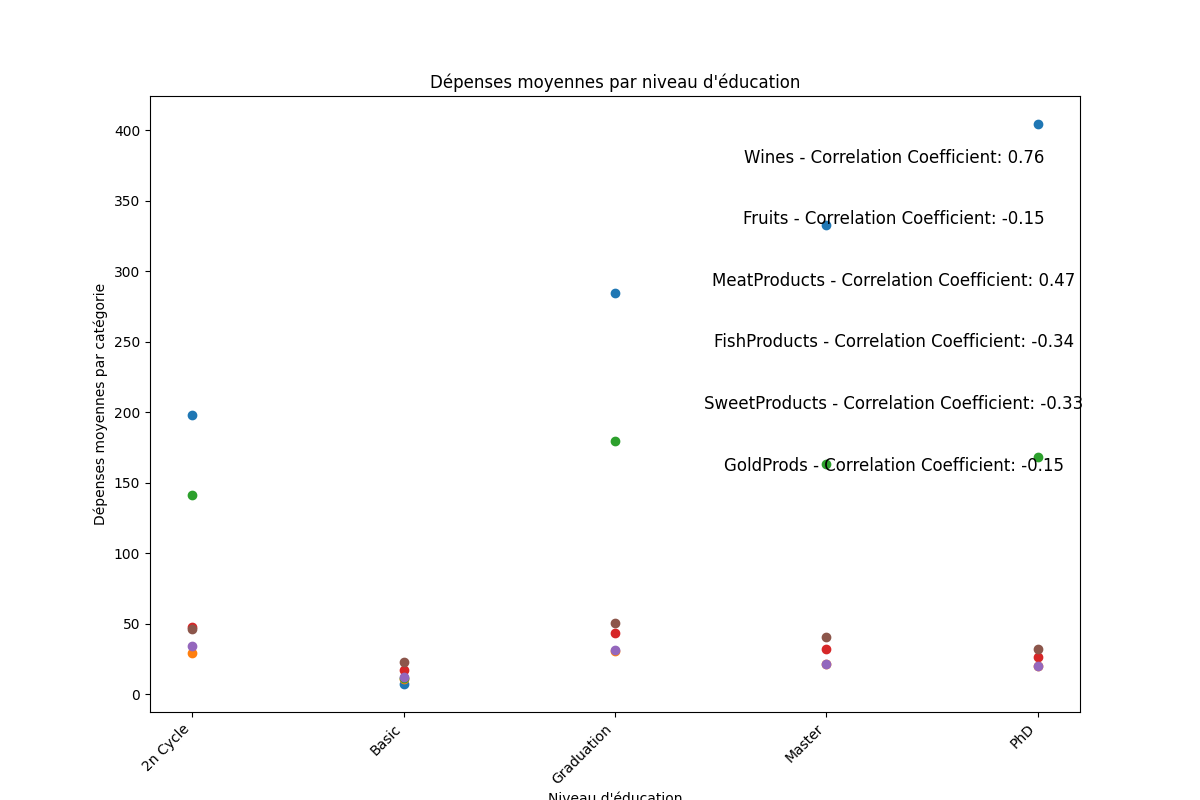
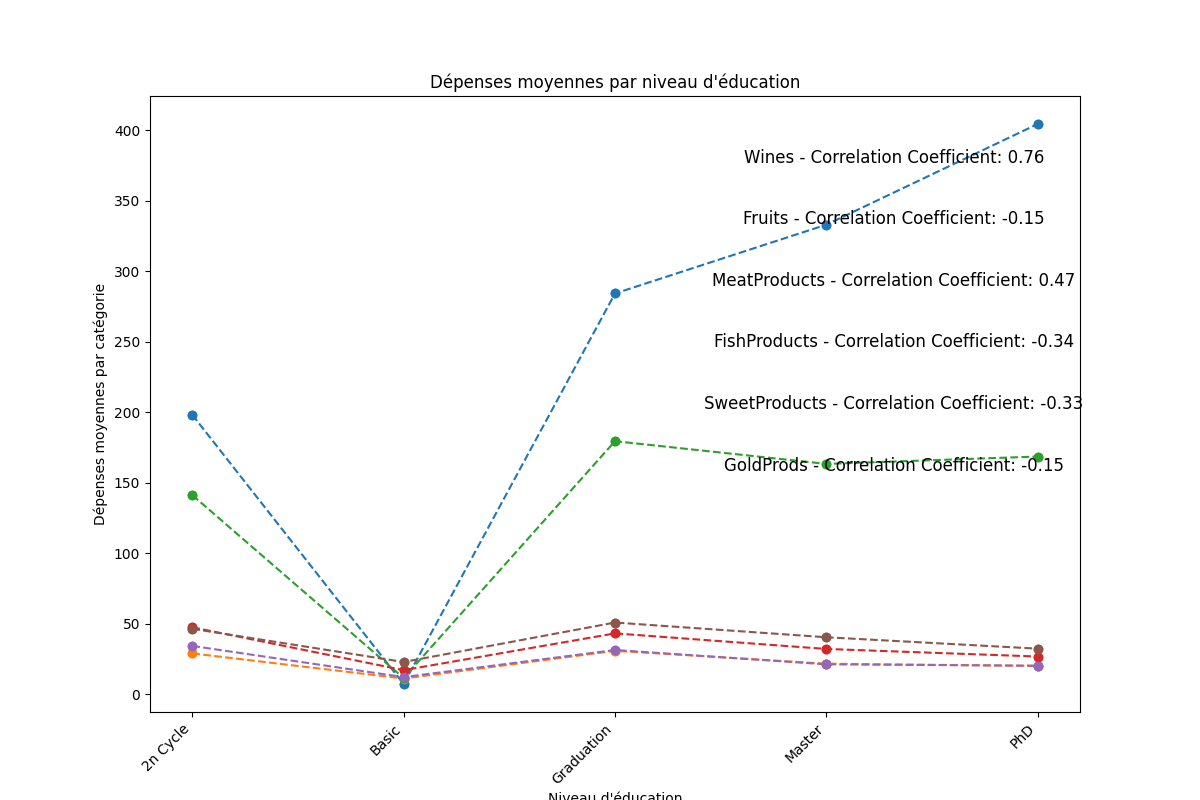
update graphs

Changed region(s): [[0.1542, 0.75, 0.8633, 0.8438], [0.37, 0.75, 0.4008, 0.7812], [0.2467, 0.7188, 0.2775, 0.75]]

diff --git a/src/dataDescription/graphsUtils.py b/src/dataDescription/graphsUtils.py
@@ -56,26 +56,30 @@ def meanAmountSpentByAge(df):
     plt.show()
 
 def meanAmountSpentByIncome(df):
-    #crée les courbes de dépenses montrant le montant moyen dépensé pour chaque catégorie de dépense et par revenu annuel
-    grouped_wines = df.groupby('Income')['MntWines'].mean().reset_index()
-    grouped_fruits = df.groupby('Income')['MntFruits'].mean().reset_index()
-    grouped_meat = df.groupby('Income')['MntMeatProducts'].mean().reset_index()
-    grouped_fish = df.groupby('Income')['MntFishProducts'].mean().reset_index()
-    grouped_sweet = df.groupby('Income')['MntSweetProducts'].mean().reset_index()
-    grouped_gold = df.groupby('Income')['MntGoldProds'].mean().reset_index()
+    # Filter income between 0 and 200000
+    df_filtered = df[(df['Income'] >= 0) & (df['Income'] <= 200000)]
 
-    # Fusionne les données
+    # Create plots showing the average amount spent for each expense category based on income
+    grouped_wines = df_filtered.groupby('Income')['MntWines'].mean().reset_index()
+    grouped_fruits = df_filtered.groupby('Income')['MntFruits'].mean().reset_index()
+    grouped_meat = df_filtered.groupby('Income')['MntMeatProducts'].mean().reset_index()
+    grouped_fish = df_filtered.groupby('Income')['MntFishProducts'].mean().reset_index()
+    grouped_sweet = df_filtered.groupby('Income')['MntSweetProducts'].mean().reset_index()
+    grouped_gold = df_filtered.groupby('Income')['MntGoldProds'].mean().reset_index()
+
+    # Merge the data
     merged_df = pd.merge(grouped_wines, grouped_fruits, on='Income')
     merged_df = pd.merge(merged_df, grouped_meat, on='Income')
     merged_df = pd.merge(merged_df, grouped_fish, on='Income')
     merged_df = pd.merge(merged_df, grouped_sweet, on='Income')
     merged_df = pd.merge(merged_df, grouped_gold, on='Income')
 
-    # Affichage
+    # Display plots
     income_values = merged_df['Income']
     categories = ['Wines', 'Fruits', 'MeatProducts', 'FishProducts', 'SweetProducts', 'GoldProds']
     for i, category in enumerate(categories):
         plt.plot(income_values, merged_df[f'Mnt{category}'], label=category)
+
     plt.xlabel('Revenu annuel')
     plt.ylabel('Montant moyen dépensé')
     plt.title('Montant moyen dépensé par catégorie de dépense et par revenu annuel')
@@ -323,7 +327,7 @@ def meanAmountBirthYScatter(df):
     plt.show()
 
 def meanAmountIncome(df):
-    #scatter le montant moyen dépensé pour chaque catégorie de dépense en fonction du revenu
+    # Scatter plot of the average amount spent for each expense category based on income
     grouped_wines = df.groupby('Income')['MntWines'].mean().reset_index()
     grouped_fruits = df.groupby('Income')['MntFruits'].mean().reset_index()
     grouped_meat = df.groupby('Income')['MntMeatProducts'].mean().reset_index()
@@ -331,7 +335,7 @@ def meanAmountIncome(df):
     grouped_sweet = df.groupby('Income')['MntSweetProducts'].mean().reset_index()
     grouped_gold = df.groupby('Income')['MntGoldProds'].mean().reset_index()
 
-    # Fusionne les données
+    # Merge the data
     merged_df = pd.merge(grouped_wines, grouped_fruits, on='Income')
     merged_df = pd.merge(merged_df, grouped_meat, on='Income')
     merged_df = pd.merge(merged_df, grouped_fish, on='Income')
@@ -340,16 +344,21 @@ def meanAmountIncome(df):
 
     categories = ['Wines', 'Fruits', 'MeatProducts', 'FishProducts', 'SweetProducts', 'GoldProds']
     plt.figure(figsize=(12, 8))
+    
     for i, category in enumerate(categories):
         plt.scatter(merged_df['Income'], merged_df[f'Mnt{category}'], label=category)
-    plt.title('Depenses moyennes par catégorie et par revenu annuel')
+        plt.plot(merged_df['Income'], merged_df[f'Mnt{category}'], linestyle='dashed', marker='o')
+
+    plt.title('Dépenses moyennes par catégorie et par revenu annuel')
     plt.xlabel("Revenu annuel")
-    plt.ylabel("Dépenses moyenne par catégorie")
+    plt.ylabel("Dépenses moyennes par catégorie")
     plt.xticks(rotation=45, ha='right')
+    
     for i, category in enumerate(categories):
         correlation_coefficient, _ = pearsonr(merged_df['Income'], merged_df[f'Mnt{category}'])
         plt.text(0.8, 0.9 - 0.1*i, f"{category} - Correlation Coefficient: {correlation_coefficient:.2f}",
                  horizontalalignment='center', verticalalignment='center', transform=plt.gca().transAxes, fontsize=12)
+
     plt.savefig('graphs_BDD/correlationIncomExpenses.png')
     plt.show()
 
@@ -371,8 +380,10 @@ def meanAmountNbKid(df):
 
     categories = ['Wines', 'Fruits', 'MeatProducts', 'FishProducts', 'SweetProducts', 'GoldProds']
     plt.figure(figsize=(12, 8))
+    
     for i, category in enumerate(categories):
         plt.scatter(merged_df['Kidhome'], merged_df[f'Mnt{category}'], label=category)
+        plt.plot(merged_df['Kidhome'], merged_df[f'Mnt{category}'], linestyle='dashed', marker='o')
 
     plt.title("Dépenses moyennes par nombre d'enfants dans le foyer")
     plt.xlabel("Nombre d'enfants")
@@ -407,8 +418,11 @@ def meanAmountNbTeen(df):
     merged_df = pd.merge(merged_df, grouped_gold, on='Teenhome')
     categories = ['Wines', 'Fruits', 'MeatProducts', 'FishProducts', 'SweetProducts', 'GoldProds']
     plt.figure(figsize=(12, 8))
+    
     for i, category in enumerate(categories):
         plt.scatter(merged_df['Teenhome'], merged_df[f'Mnt{category}'], label=category)
+        plt.plot(merged_df['Teenhome'], merged_df[f'Mnt{category}'], linestyle='dashed', marker='o')
+
     plt.title("Dépenses moyennes par nombre d'adolescents dans le foyer")
     plt.xlabel("Nombre d'adolescents")
     plt.ylabel("Dépenses moyennes par catégorie")
@@ -416,10 +430,12 @@ def meanAmountNbTeen(df):
     # Set integer ticks on the x-axis
     plt.xticks(list(map(int, merged_df['Teenhome'])))
     plt.xticks(rotation=45, ha='right')
+    
     for i, category in enumerate(categories):
         correlation_coefficient, _ = pearsonr(merged_df['Teenhome'], merged_df[f'Mnt{category}'])
         plt.text(0.8, 0.9 - 0.1*i, f"{category} - Correlation Coefficient: {correlation_coefficient:.2f}",
                  horizontalalignment='center', verticalalignment='center', transform=plt.gca().transAxes, fontsize=12)
+
     plt.savefig('graphs_BDD/correlationNbTeenExpenses.png')
     plt.show()
 
@@ -441,8 +457,10 @@ def meanAmountEducation(df):
 
     categories = ['Wines', 'Fruits', 'MeatProducts', 'FishProducts', 'SweetProducts', 'GoldProds']
     plt.figure(figsize=(12, 8))
+    
     for i, category in enumerate(categories):
         plt.scatter(range(len(merged_df['Education'])), merged_df[f'Mnt{category}'], label=category)
+        plt.plot(range(len(merged_df['Education'])), merged_df[f'Mnt{category}'], linestyle='dashed', marker='o')
 
     plt.title("Dépenses moyennes par niveau d'éducation")
     plt.xlabel("Niveau d'éducation")
@@ -477,8 +495,10 @@ def meanAmountMaritalStatus(df):
 
     categories = ['Wines', 'Fruits', 'MeatProducts', 'FishProducts', 'SweetProducts', 'GoldProds']
     plt.figure(figsize=(12, 8))
+    
     for i, category in enumerate(categories):
         plt.scatter(range(len(merged_df['Marital_Status'])), merged_df[f'Mnt{category}'], label=category)
+        plt.plot(range(len(merged_df['Marital_Status'])), merged_df[f'Mnt{category}'], linestyle='dashed', marker='o')
 
     plt.title("Dépenses moyennes par statut marital")
     plt.xlabel("Statut marital")
